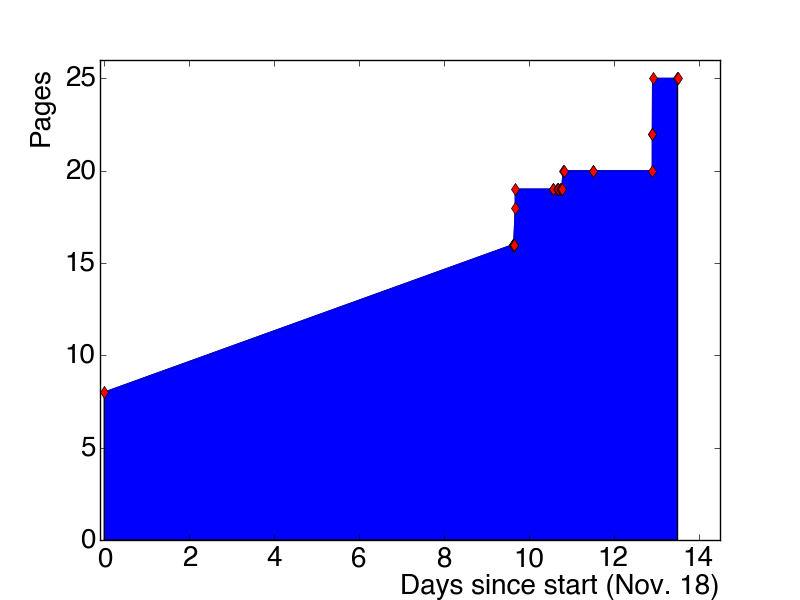
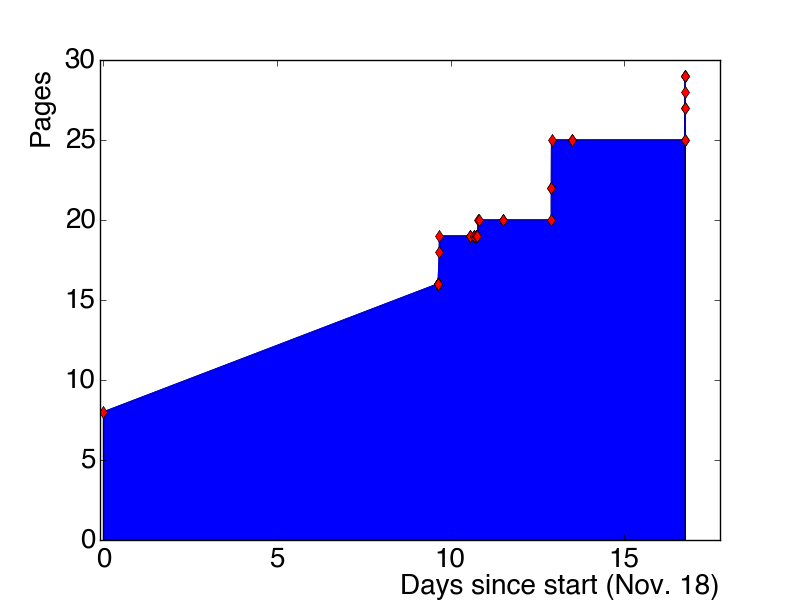
results plots

diff --git a/tex/results.tex b/tex/results.tex
@@ -1,0 +1,51 @@
+\chapter[results][results]{Results for $\Htautau$}
+\label{chap:results}
+
+\begin{quote}
+Results of the $\Htautau$ analysis are described.
+\end{quote}
+
+\section{Fit results}
+\label{sec:results-fit-results}
+
+% REPLACE ME WITH PAPER PLOTS
+\begin{figure}[tp]
+  \centering
+  \includegraphics[width=0.48\textwidth]{figures/ATLAS-CONF-2014-061/fig_08b}
+  \includegraphics[width=0.48\textwidth]{figures/ATLAS-CONF-2014-061/fig_08a}
+  \includegraphics[width=0.48\textwidth]{figures/ATLAS-CONF-2014-061/fig_08d}
+  \includegraphics[width=0.48\textwidth]{figures/ATLAS-CONF-2014-061/fig_08c}
+  \includegraphics[width=0.48\textwidth]{figures/ATLAS-CONF-2014-061/fig_08f}
+  \includegraphics[width=0.48\textwidth]{figures/ATLAS-CONF-2014-061/fig_08e}
+  \caption{Variables.}
+  \label{fig:results-bdts}
+\end{figure}
+
+% REPLACE ME WITH PAPER PLOTS
+\begin{figure}[tp]
+  \centering
+  \includegraphics[width=0.48\textwidth]{figures/ATLAS-CONF-2014-061/fig_10}
+  \includegraphics[width=0.48\textwidth]{figures/ATLAS-CONF-2014-061/fig_11b}
+  \caption{Variables.}
+  \label{fig:results-money-plots}
+\end{figure}
+
+% REPLACE ME WITH PAPER PLOTS
+\begin{figure}[tp]
+  \centering
+  \includegraphics[width=0.48\textwidth]{figures/ATLAS-CONF-2014-061/fig_12}
+  \includegraphics[width=0.48\textwidth]{figures/ATLAS-CONF-2014-061/fig_14}
+  \caption{Variables.}
+  \label{fig:results-mup0}
+\end{figure}
+
+% REPLACE ME WITH PAPER PLOTS
+\begin{figure}[tp]
+  \centering
+  \includegraphics[width=0.45\textwidth]{figures/ATLAS-CONF-2014-061/fig_07}
+  \includegraphics[width=0.45\textwidth]{figures/ATLAS-CONF-2014-061/fig_09}
+  \caption{Variables.}
+  \label{fig:results-mup0}
+\end{figure}
+
+

diff --git a/thesis.tex b/thesis.tex
@@ -61,7 +61,7 @@
 \include{tex/taus}
 \include{tex/strategy}
 %\include{tex/backgrounds}
-%\include{tex/results}
+\include{tex/results}
 \include{tex/prospects}
 %\include{tex/conclusion}
 

diff --git a/figures.md b/figures.md
@@ -68,20 +68,31 @@
   0. boost     SR                       :small_red_triangle:
   0. 2013 vs 2014 pre-fit uncertainty   :small_red_triangle:
 0. [Results](tex/)                      :small_red_triangle:
-  0. post-fit BDTs
+  0. post-fit BDTs                      :small_red_triangle:
+  0. combined BDT                       :small_red_triangle:
+  0. S/B-weighted mass                  :small_red_triangle:
+  0. signal strength summary            :small_red_triangle:
+  0. p-value vs. mH                     :small_red_triangle:
+  0. muVBF vs. muggF                    :small_red_triangle:
 0. [Future prospects](tex/)             :small_red_triangle:
   0. dR of minbias vs ggF (boost)       :small_red_triangle:
   0. dR of minbias vs VBF               :small_red_triangle:
   0. pt of lead jet (boost)             :small_red_triangle:
   0. pt of lead jet (VBF)               :small_red_triangle:
+  0. sensitivity vs threshold, lh       :small_red_triangle:
+  0. sensitivity vs threshold, hh       :small_red_triangle:
+  0. L1 schematic                       :small_red_triangle:
   0. L1 turn-ons for 1x1, 2x2, 4x4      :small_red_triangle:
-  0. L1 isolation efficiency            :small_red_triangle:
+  0. L1 iso efficiency, with TAU60      :small_red_triangle:
+  0. L1 iso efficiency, without TAU60   :small_red_triangle:
+  0. L1 iso rates, with TAU60           :small_red_triangle:
+  0. L1 iso rates, without TAU60        :small_red_triangle:
   0. LTT input variables, BDT           :small_red_triangle:
   0. forward tracker layout             :small_red_triangle:
-  0. pile-up impact on MMC, MET         :small_red_triangle:
-  0. ROC curves with forward trackers   :small_red_triangle:
-  0. jet variables at mu=140            :small_red_triangle:
-  0. BDTs at mu=140                     :small_red_triangle:
+  0. pile-up impact on MMC, MET         :small_blue_diamond:
+  0. ROC curves with forward trackers   :small_blue_diamond:
+  0. jet variables at mu=140            :small_blue_diamond:
+  0. BDTs at mu=140                     :small_blue_diamond:
 0. [Conclusions](tex/)                  :small_red_triangle:
 
 ### Legend

diff --git a/pages.md b/pages.md
@@ -32,3 +32,11 @@
 + [2014-11-30-21h51m11s] 25
 + [2014-12-01-11h47m28s] 25
 + [2014-12-01-11h52m45s] 25
++ [2014-12-04-18h01m23s] 25
++ [2014-12-04-18h02m01s] 25
++ [2014-12-04-18h11m10s] 27
++ [2014-12-04-18h12m23s] 27
++ [2014-12-04-18h13m34s] 28
++ [2014-12-04-18h15m46s] 29
++ [2014-12-04-18h16m14s] 29
++ [2014-12-04-18h16m31s] 29
